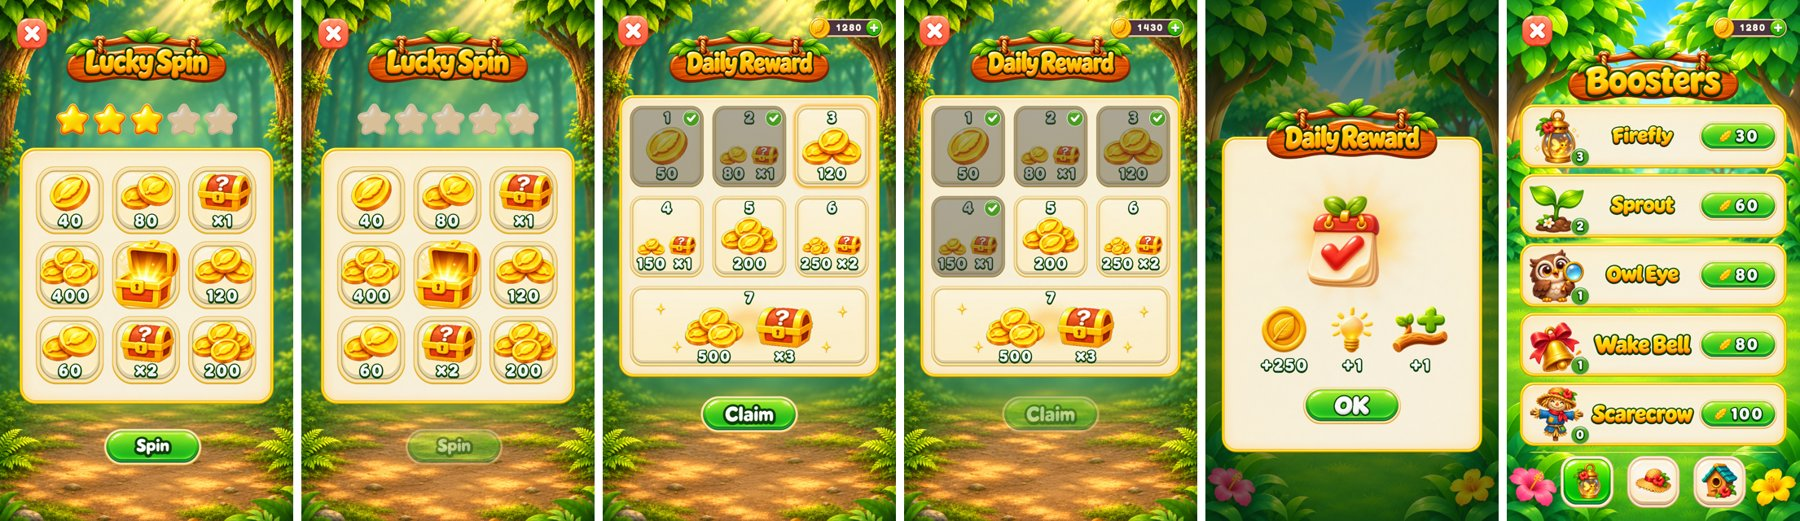
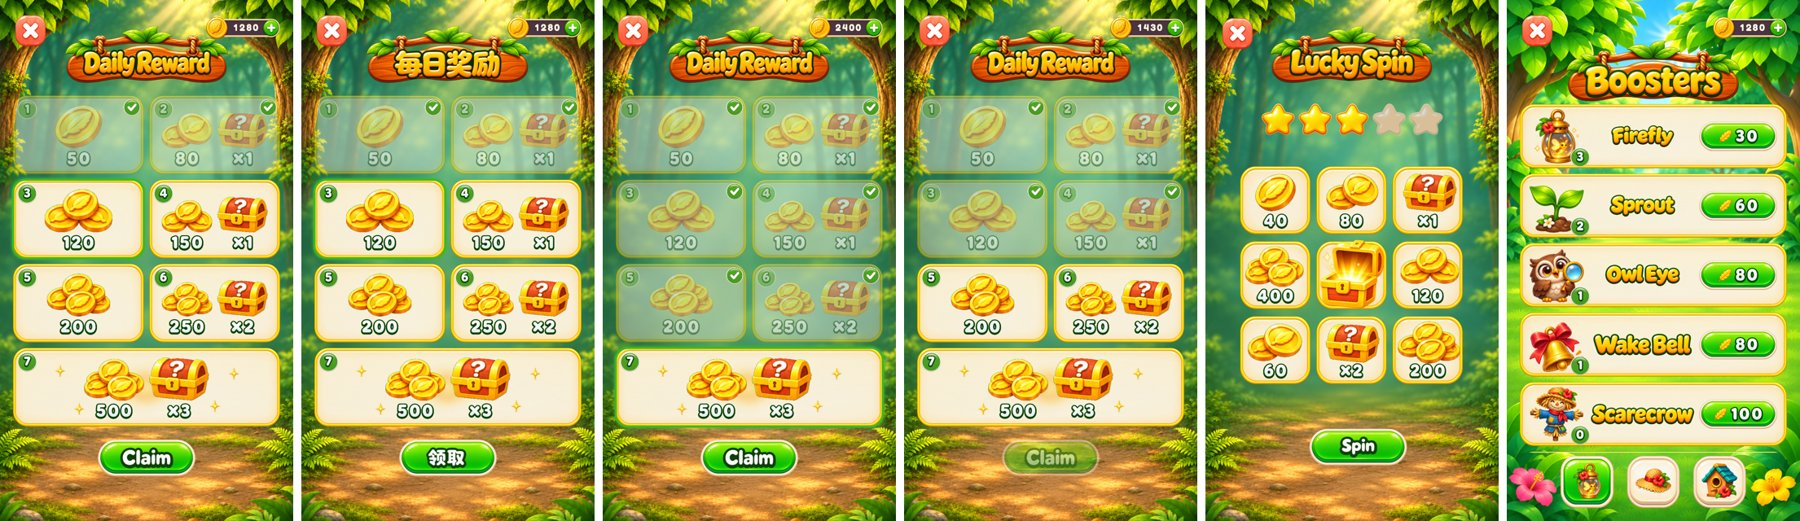
Daily Reward and Lucky Spin: items on their own cards, no backing sheet
- Daily Reward: each day is the shop's cream card floating on the forest (two
  columns, day 7 full width), the day on the shop's green disc, the shop's tick on
  claimed days and its green outline on today. No big sheet, no slot inside a card.
- Lucky Spin: the cream board is gone; each prize cell is its own cream card.
- Green actions keep the original cream-rim plate (island-style.md); the gold-rim
  plate and the cream well are removed.

diff --git a/docs/work-log/daily-reward/spec.md b/docs/work-log/daily-reward/spec.md
@@ -26,15 +26,19 @@ logging in on consecutive days pays more. The design is left to Claude.
 
 ## Page (`game/popups.gd` `daily_reward`)
 
-- Lucky Spin page family: forest backdrop, hanging sign "Daily Reward / 每日奖励" at `PAGE_SIGN`, Close top-left,
-  feather counter top-right, the cream card (`ButtonKit.panel`) at 60,350,960,1040.
-- Days 1-6: two rows of three 272 x 300 slots; day 7: one wide 880 x 296 slot under them with glow and sparkles. Slots
-  are the warm `slot_cream_well` as a nine-patch (corners never stretched).
-- Each slot: day number, coin-pile picture with its amount, and a mystery chest with "×n" when boosters are included.
-- Claimed days are dimmed with a tick; today's slot has the gold glow, bounces and its pictures breathe.
-- One green Primary action "Claim / 领取" (520 x 176 hit area, 360 x 136 plate), dimmed and inactive once claimed.
+- Shop and Lucky Spin page family: forest backdrop, hanging sign "Daily Reward / 每日奖励" at `PAGE_SIGN`, Close
+  top-left, feather counter top-right.
+- No backing sheet and no card inside a card (`docs/design/island-style.md`): each day is its own cream card
+  (`ButtonKit.panel`, the shop's card) floating on the forest. Days 1-6: two columns of 482 x 290 cards with 20 px
+  gaps in 48,352,984,1220; day 7: one full-width 984 x 290 card under them with glow and sparkles.
+- Each card: the day number on the shop's green disc at the top-left corner, the coin pile with its amount, and a
+  mystery chest with "×n" when boosters are included.
+- Claimed days are dimmed like disabled items with the shop's tick top-right; today's card has the shop's green
+  selected outline, bounces and its pictures breathe.
+- One green Primary action "Claim / 领取", dimmed and inactive once claimed.
 - Claim: the slot pops, the tick stamps in, coins burst, the counter bumps; then the rewards dialog (sign title "Daily
   Reward", calendar hero, coins and the actual boosters). Its OK closes the page.
+- Claim sits at 280,1600,520,176 (360 x 136 Primary plate).
 - New painted words (Codex, en and zh): `lettering_daily_reward_title`, `white_claim`. Manifests only gain entries.
 
 ## Preview states

diff --git a/docs/work-log/daily-reward/report.md b/docs/work-log/daily-reward/report.md
@@ -10,17 +10,21 @@
 - Words (Codex, en and zh): `lettering_daily_reward_title`, `white_claim`; gold word entry `daily_reward.title`.
 
 ## Colour fix (user, 2026-11-13: Lucky Spin colours did not match)
-The mint slots, their peach rims, the cyan used stars and the peach button rim clashed with the cream-and-gold card.
-Derived art (originals untouched): `slot_cream_well` (warm well, gold rim; Lucky Spin and Daily Reward),
-`star_draw_spent` (gold star faded to tan), `btn_plate_green_gold_rim` (gold rim, calmer green). `ButtonKit` green
-now uses the gold-rim plate, so every green action across the game changes with it.
+The mint slots with peach rims and the cyan used stars clashed with the cream card. Used stars are now
+`star_draw_spent` (the gold star faded to tan, derived; original untouched).
+
+## Layout fix (user, 2026-11-13: "UI does not match the other pages; card inside card again")
+The first Daily Reward page put slots on a big cream sheet, breaking `island-style.md` ("no big backing sheet").
+Both Daily Reward and Lucky Spin now place each item on its own shop cream card directly on the forest. A gold-rim
+green plate tried in between was withdrawn: the spec gives green actions a cream rim, so every green button is
+unchanged.
 
 ## Checks
 - `bash scripts/run_tests.sh`: naming OK, smoke 0 failures, core 0 failures (new calendar, streak, draw checks).
 - `run_family_dialogs.gd`: 1780 checks, 0 failures.
 - `run_home.gd` hangs on the base branch too (it reads constants that no longer exist); not run as evidence.
-- Captures: `evidence/pages_after_colour_fix.jpg`, `evidence/daily_reward_en_zh.jpg`; claim motion 0.25 s frames
+- Captures: `evidence/pages_after_colour_fix.jpg` (Daily Reward en and zh, week, claimed; Lucky Spin; Shop for comparison); claim motion 0.25 s frames
   `evidence/claim_sequence_frames.jpg` (from `--preview=popups:daily_reward_claim --frames`).
 
 ## Open
-- The level card's bird rings still use the mint `hud_tool_slot` on the cream card.
+- The level card's bird rings still use the mint `hud_tool_slot` inside the cream dialog card.
